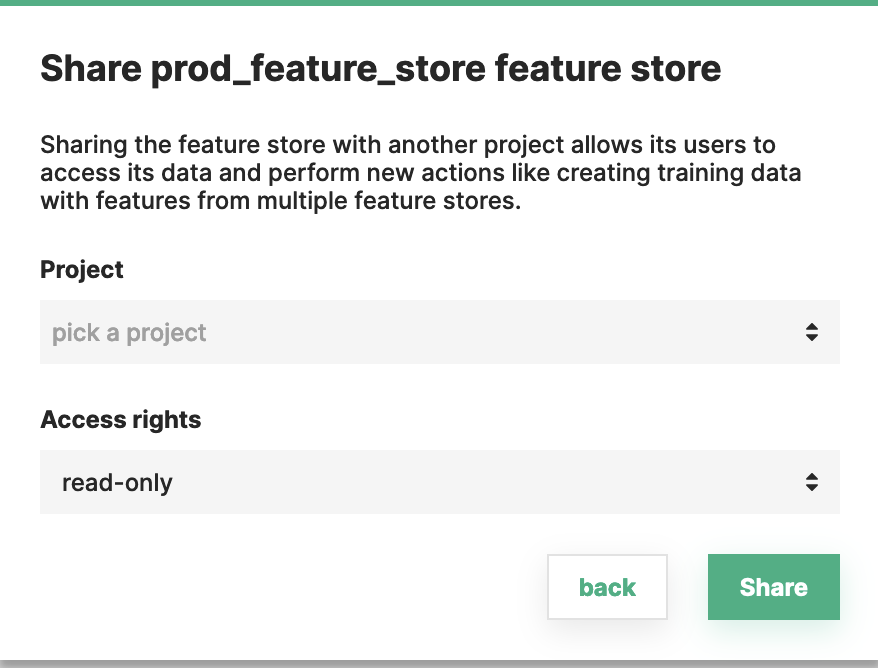
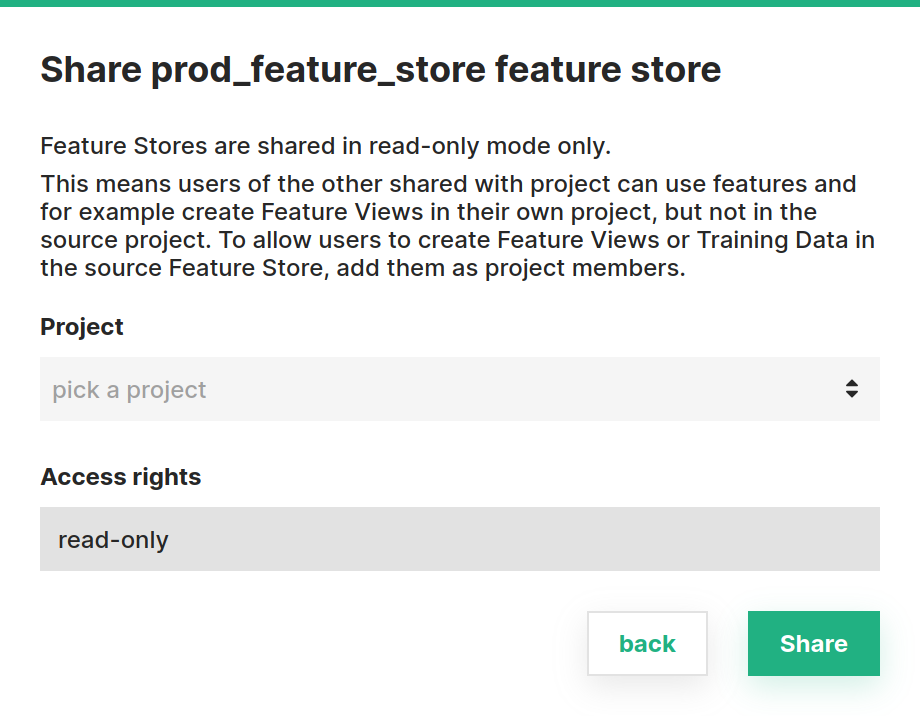
[FSTORE-529] Documentation for Permission matrix (#163)

diff --git a/docs/user_guides/fs/sharing/sharing.md b/docs/user_guides/fs/sharing/sharing.md
@@ -5,17 +5,17 @@
 Hopsworks allows artifacts (e.g. feature groups, feature views) to be shared between projects.
 There are two main use cases for sharing features between projects:
 
-- If you have multiple teams working on the same Hopsworks deployment. Each team works within their own set of projects. 
-  If a team A wants to leverage features built by team B, they can do so by sharing the feature groups from a team A project to a team B project.
+- If you have multiple teams working on the same Hopsworks deployment. Each team works within its own set of projects. 
+  If team A wants to leverage features built by team B, they can do so by sharing the feature groups from a team A project to a team B project.
 
-- By creating different projects for the different stages of development lifecycle (e.g. a dev project, a testing project and a production project), 
-  you can make sure that changes on the development project don't impact the features in the production project. At the same time you might want to 
-  leverage production features to develop new models or additional features. In this case you can share the production feature store with the 
-  development feature store in read only mode.
+- By creating different projects for the different stages of the development lifecycle (e.g. a dev project, a testing project, and a production project), 
+  you can make sure that changes on the development project don't impact the features in the production project. At the same time, you might want to 
+  leverage production features to develop new models or additional features. In this case, you can share the production feature store with the 
+  development feature store in `read-only` mode.
 
 ### Step 1: Open the project of the feature store that you would like to share on Hopsworks.
 
-In the `Project Settings` navigate to `Shared with other projects` section.
+In the `Project Settings` navigate to the `Shared with other projects` section.
 
 <p align="center">
   <figure>
@@ -27,7 +27,7 @@ In the `Project Settings` navigate to `Shared with other projects` section.
 
 Click `Share feature store` to bring up the dialog for sharing.
 
-In `Project` section choose project you wish to share feature store with.
+In the `Project` section choose project you wish to share the feature store with.
 
 <p align="center">
   <figure>
@@ -35,9 +35,11 @@ In `Project` section choose project you wish to share feature store with.
   </figure>
 </p>
 
-### Step 3: Accept Invitation
+Feature stores can be shared exclusively using `read-only` permission. This means that a member is not capable of enacting any changes on the shared project.
 
-In the project where feature store was shared (step 2) go to `Project Settings` and navigate to `Shared from other projects` section.
+### Step 3: Accept the Invitation
+
+In the project where the feature store was shared (step 2) go to `Project Settings` and navigate to the `Shared from other projects` section.
 Click `accept`.
 
 
@@ -93,4 +95,4 @@ query = shared_fg.select_all().join(fg_a.select_all())
 
 ## Conclusion
 
-In this guide you learned how to share a feature store and how to join features from different feature stores.
+In this guide, you learned how to share a feature store and how to join features from different feature stores.

diff --git a/docs/user_guides/projects/project/add_members.md b/docs/user_guides/projects/project/add_members.md
@@ -2,11 +2,11 @@
 
 ### Introduction
 
-In this guide, you will learn how to add new members to your project.
+In this guide, you will learn how to add new members to your project as well as the different roles within a project.
 
 ## Step 1: Members list
 
-In the `Project settings` page you can find the `General` section, which lists the members of the project.
+On the `Project settings` page, you can find the `General` section, which lists the members of the project.
 
 <p align="center">
   <figure>
@@ -15,9 +15,9 @@ In the `Project settings` page you can find the `General` section, which lists t
   </figure>
 </p>
 
-## Step 2: Add new member
+## Step 2: Add a new member
 
-Next click `Add members` and a dialog where users can be invited. Select the users to invite.
+Next click `Add members` and a dialog where users can be invited will appear. Select the users to invite.
 
 <p align="center">
   <figure>
@@ -26,6 +26,26 @@ Next click `Add members` and a dialog where users can be invited. Select the use
   </figure>
 </p>
 
+Subsequently, the selected project members can be assigned to 2 different roles, depending on the privileges necessary for him/her to fulfill their needs.
+
+### Data owner
+
+Data owners hold the highest authority in the project, having full control of its contents.
+
+They are allowed to:
+- Share a project
+- Manage the project and its members
+- Work with all feature store abstractions (such as Feature groups, Feature views, Storage connectors, etc.)
+
+It is worth mentioning that the project's creator (aka. `author`) is a special type of `Data owner`. He is the only user capable of deleting the project and it is impossible to change his role to `Data scientist`.
+
+### Data scientist
+
+Data scientists can be viewed as the users of data.
+
+They are allowed to:
+- Create feature views/training datasets using existing features
+- Manage the feature views/training datasets they have created
 
 ## Step 3: Member invited
 
@@ -40,4 +60,4 @@ The invited user will now appear in the list of members and will have access to 
 
 ## Conclusion
 
-In this guide you learned how to add a new member.
+In this guide, you learned how to add a new member and the types of roles this member can be a part of.
